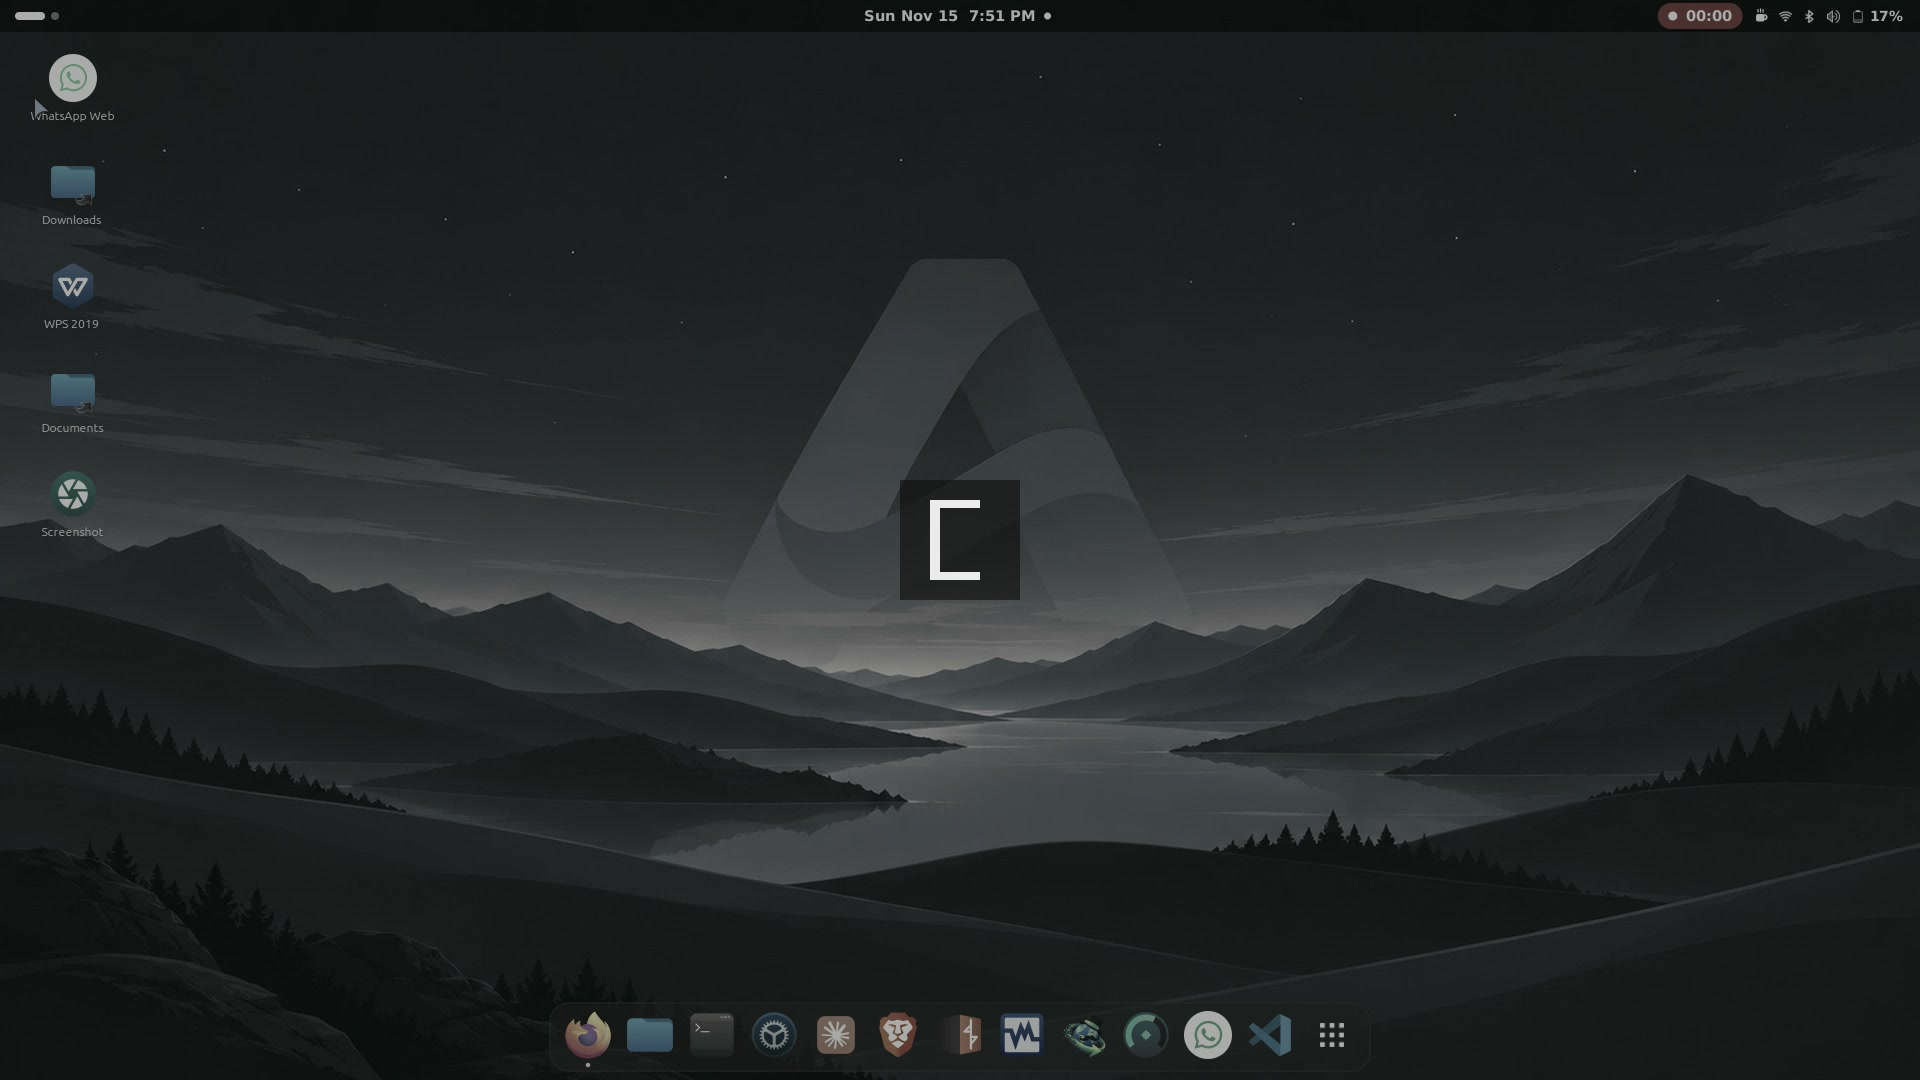
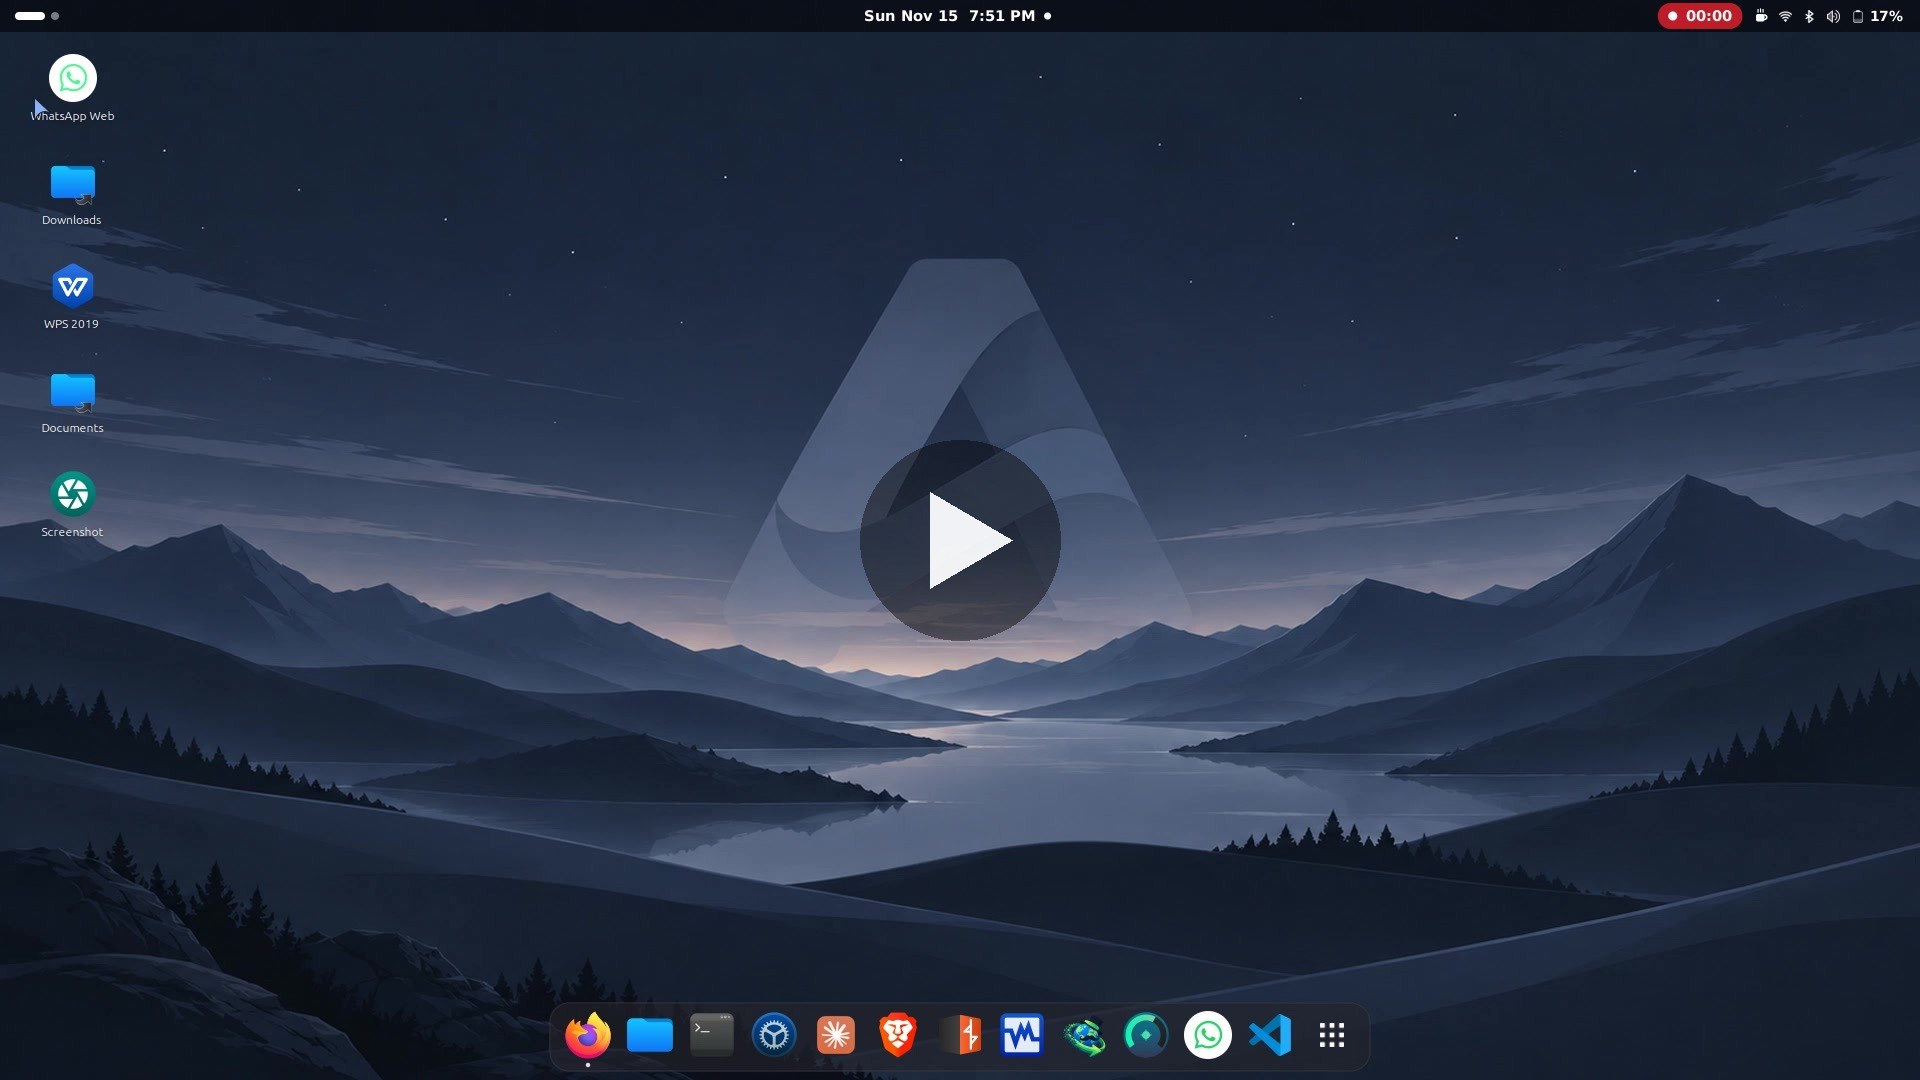
Clear video thumbnail with play button; clean up README

diff --git a/README.md b/README.md
@@ -4,8 +4,8 @@ Binary: `lumen` (release, stripped). Source: `lumen-src.tar.gz` (`cargo build --
 
 <div align="center">
 
-<!-- When you get the user-attachments URL from https://github.com/Rocklinks/Lumen-Shell/issues/2,
-     replace the line below with it (on its own line) to get the inline video player like JaKooLit's README -->
+<!-- To get the inline video player, replace the image line below with the
+     user-attachments URL on its own line, centered in this div -->
 
 [![Lumen Shell Demo](lumen-thumb-play.jpg)](lumen.mp4)
 
